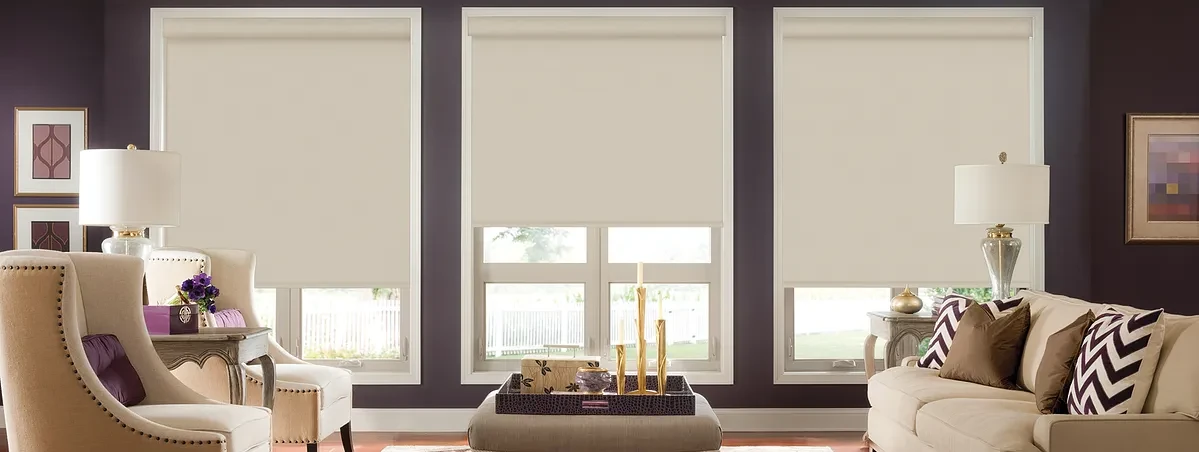
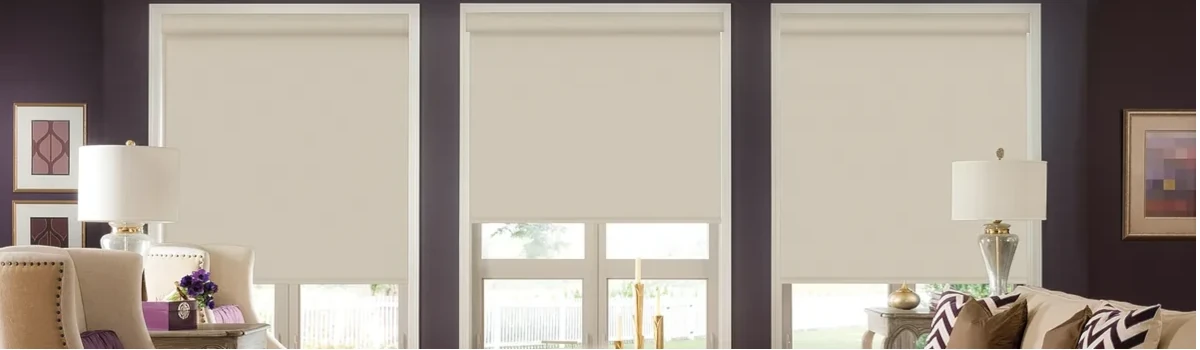
Update

diff --git a/LuxuryWindowTreatments.html b/LuxuryWindowTreatments.html
@@ -169,8 +169,8 @@
       <div class="rel-position margin-tb-25">
         <a href="tel:14052595599" onclick="return gtag_report_conversion();">
           <div class="heroContainer">
-            <img class="hero" src="/images/5250-sheer-shades-rs20-v1-Wide.webp" width="1500"
-              height="718" alt="Luxury Sheer Shades">
+            <img class="hero" src="/images/5250-sheer-shades-rs20-v1-Wide.webp" width="1200"
+              height="350" alt="Luxury Sheer Shades">
           </div>
         </a>
 
